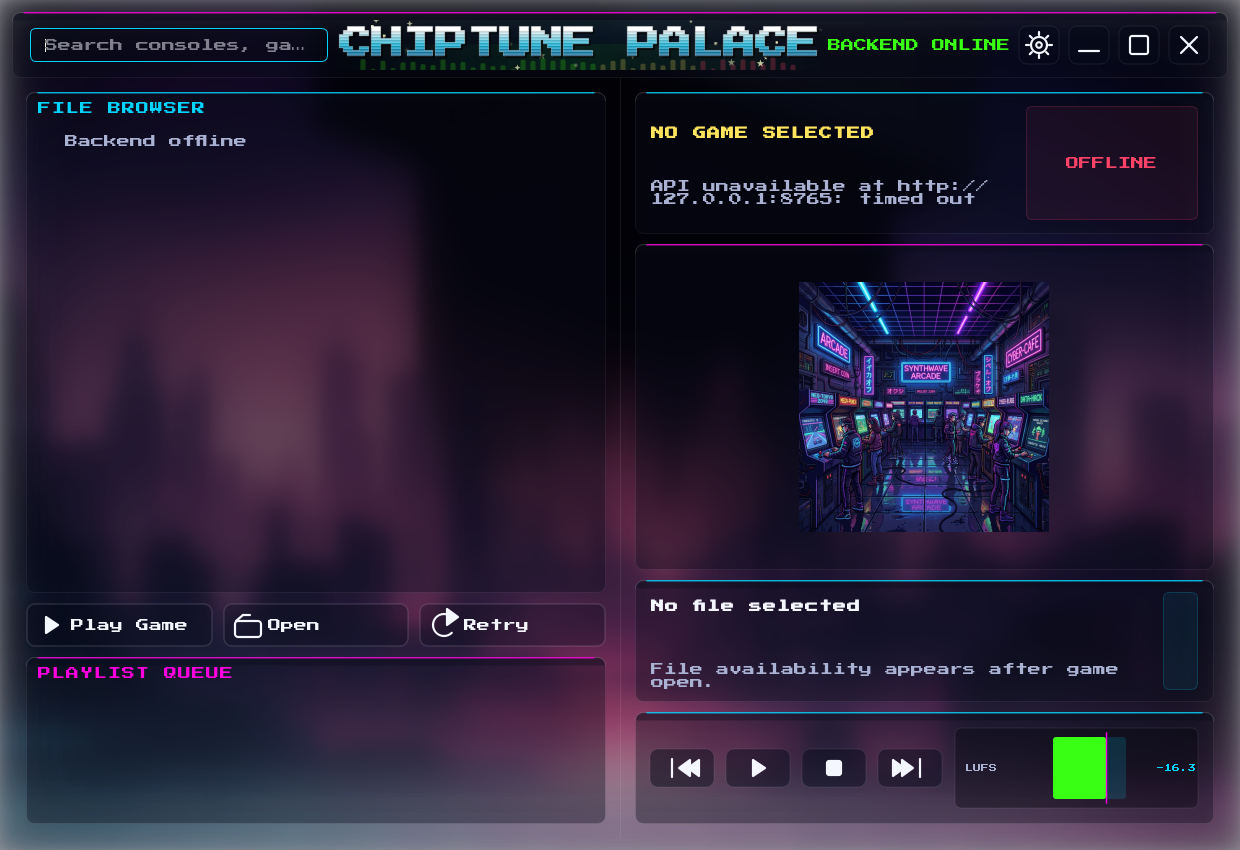
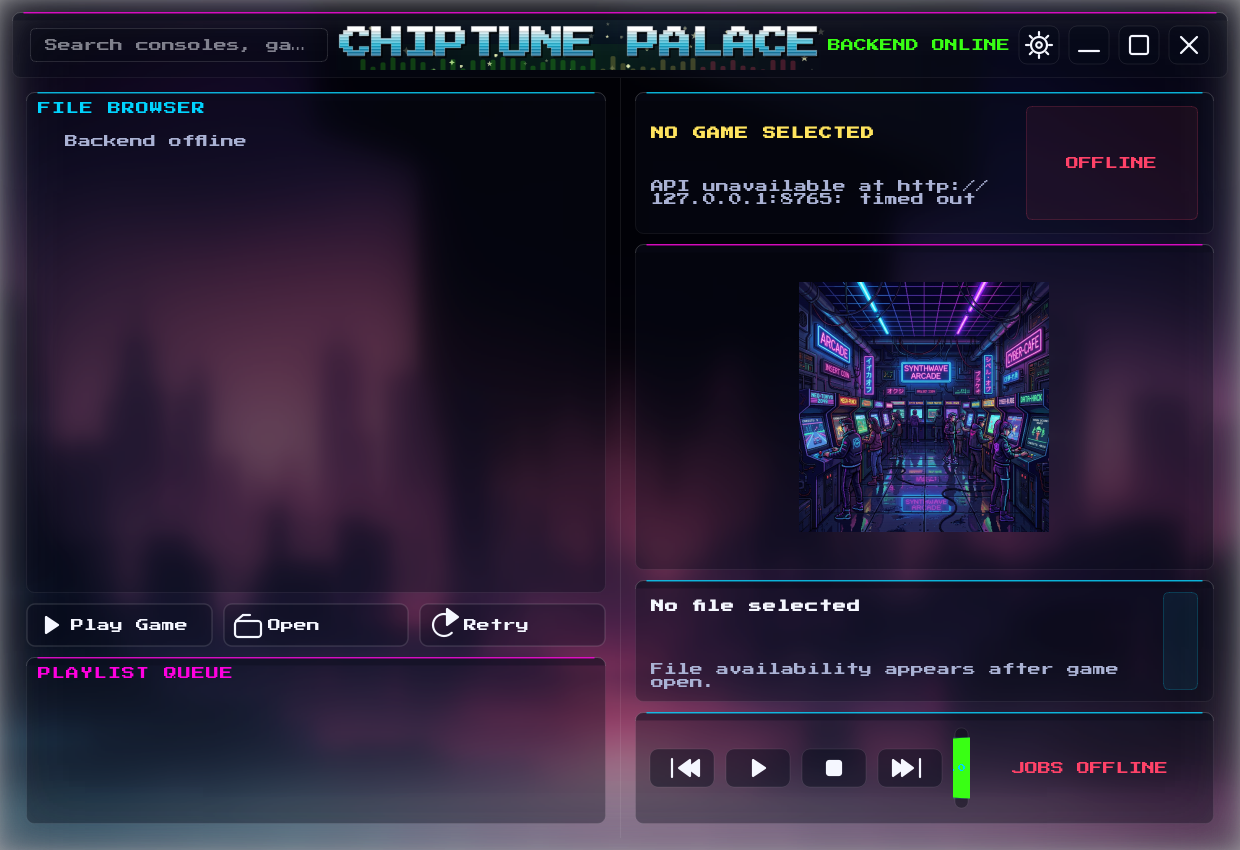
Start hidden backend with player UI

Changed region(s): [[0.7661, 0.8565, 0.95, 0.9482], [0.4903, 0.0612, 0.6435, 0.0918], [0.3677, 0.0612, 0.429, 0.0918]]

diff --git a/player_ui/shell.py b/player_ui/shell.py
@@ -357,6 +357,7 @@ class PlayerShell(BackgroundWindow):
         self._build()
         self._start_meter_demo()
         QTimer.singleShot(0, self._load_catalog_tree)
+        self._start_backend_stats_poll()
 
     def _font(self, size: int, bold=False) -> QFont:
         f = QFont(self.ui_font, size)
@@ -919,6 +920,12 @@ class PlayerShell(BackgroundWindow):
         player_layout.addWidget(IconButton("next", "Next", Palette.cyan))
         self.meter = LufsMeter(self.pixel_font)
         player_layout.addWidget(self.meter, 1)
+        self.job_status_label = QLabel("JOBS --")
+        self.job_status_label.setAlignment(Qt.AlignCenter)
+        self.job_status_label.setFont(self._pixel_font(6))
+        self.job_status_label.setStyleSheet(f"color: {Palette.muted.name()};")
+        self.job_status_label.setMinimumWidth(220)
+        player_layout.addWidget(self.job_status_label)
         layout.addWidget(player)
         return col
 
@@ -1120,6 +1127,37 @@ class PlayerShell(BackgroundWindow):
         self._meter_timer = QTimer(self)
         self._meter_timer.timeout.connect(self._tick_meter)
         self._meter_timer.start(70)
+
+    def _start_backend_stats_poll(self):
+        self._stats_timer = QTimer(self)
+        self._stats_timer.timeout.connect(self._refresh_backend_stats)
+        self._stats_timer.start(4000)
+        QTimer.singleShot(250, self._refresh_backend_stats)
+
+    def _refresh_backend_stats(self):
+        try:
+            stats = self.api.stats()
+        except PlayerApiError:
+            self.job_status_label.setText("JOBS OFFLINE")
+            self.job_status_label.setStyleSheet(f"color: {Palette.red.name()};")
+            return
+
+        crawl_active = stats.get("crawl_jobs_running", 0)
+        crawl_done = stats.get("crawl_jobs_completed", 0)
+        crawl_failed = stats.get("crawl_jobs_failed", 0)
+        retrieval_active = stats.get("retrieval_jobs_pending", 0) + stats.get("retrieval_jobs_downloading", 0)
+        retrieval_done = stats.get("retrieval_jobs_completed", 0)
+        retrieval_failed = stats.get("retrieval_jobs_failed", 0)
+        resources = stats.get("resource_nodes", 0)
+        games = stats.get("games", 0)
+
+        self.job_status_label.setText(
+            f"JOBS C{crawl_active}/{crawl_done}/{crawl_failed} "
+            f"R{retrieval_active}/{retrieval_done}/{retrieval_failed} "
+            f"G{games} RES{resources}"
+        )
+        color = Palette.red if crawl_failed or retrieval_failed else Palette.green
+        self.job_status_label.setStyleSheet(f"color: {color.name()};")
 
     def _tick_meter(self):
         self._meter_phase += 0.17

diff --git a/db/manager.py b/db/manager.py
@@ -866,8 +866,13 @@ class DatabaseManager:
                 "tracks": conn.execute("SELECT COUNT(*) FROM tracks").fetchone()[0],
                 "sources": conn.execute("SELECT COUNT(*) FROM sources").fetchone()[0],
                 "resource_nodes": conn.execute("SELECT COUNT(*) FROM resource_nodes").fetchone()[0],
+                "crawl_jobs_running": conn.execute("SELECT COUNT(*) FROM crawl_jobs WHERE status = 'running'").fetchone()[0],
+                "crawl_jobs_completed": conn.execute("SELECT COUNT(*) FROM crawl_jobs WHERE status = 'completed'").fetchone()[0],
+                "crawl_jobs_failed": conn.execute("SELECT COUNT(*) FROM crawl_jobs WHERE status = 'failed'").fetchone()[0],
                 "retrieval_jobs_pending": conn.execute("SELECT COUNT(*) FROM retrieval_jobs WHERE status = 'pending'").fetchone()[0],
+                "retrieval_jobs_downloading": conn.execute("SELECT COUNT(*) FROM retrieval_jobs WHERE status = 'downloading'").fetchone()[0],
                 "retrieval_jobs_completed": conn.execute("SELECT COUNT(*) FROM retrieval_jobs WHERE status = 'completed'").fetchone()[0],
+                "retrieval_jobs_failed": conn.execute("SELECT COUNT(*) FROM retrieval_jobs WHERE status = 'failed'").fetchone()[0],
                 "local_files": conn.execute("SELECT COUNT(*) FROM local_files WHERE is_available = 1").fetchone()[0],
                 "audition_events": conn.execute("SELECT COUNT(*) FROM audition_events").fetchone()[0],
                 "discovered_sites": conn.execute("SELECT COUNT(*) FROM discovered_sites").fetchone()[0],

diff --git a/player_ui/api_client.py b/player_ui/api_client.py
@@ -30,6 +30,9 @@ class PlayerApiClient:
     def retry_game(self, game_id: int) -> dict:
         return self._post(f"/api/games/{game_id}/retry")
 
+    def stats(self) -> dict:
+        return self._get("/api/stats")
+
     def _get(self, path: str) -> dict:
         return self._request("GET", path)
 